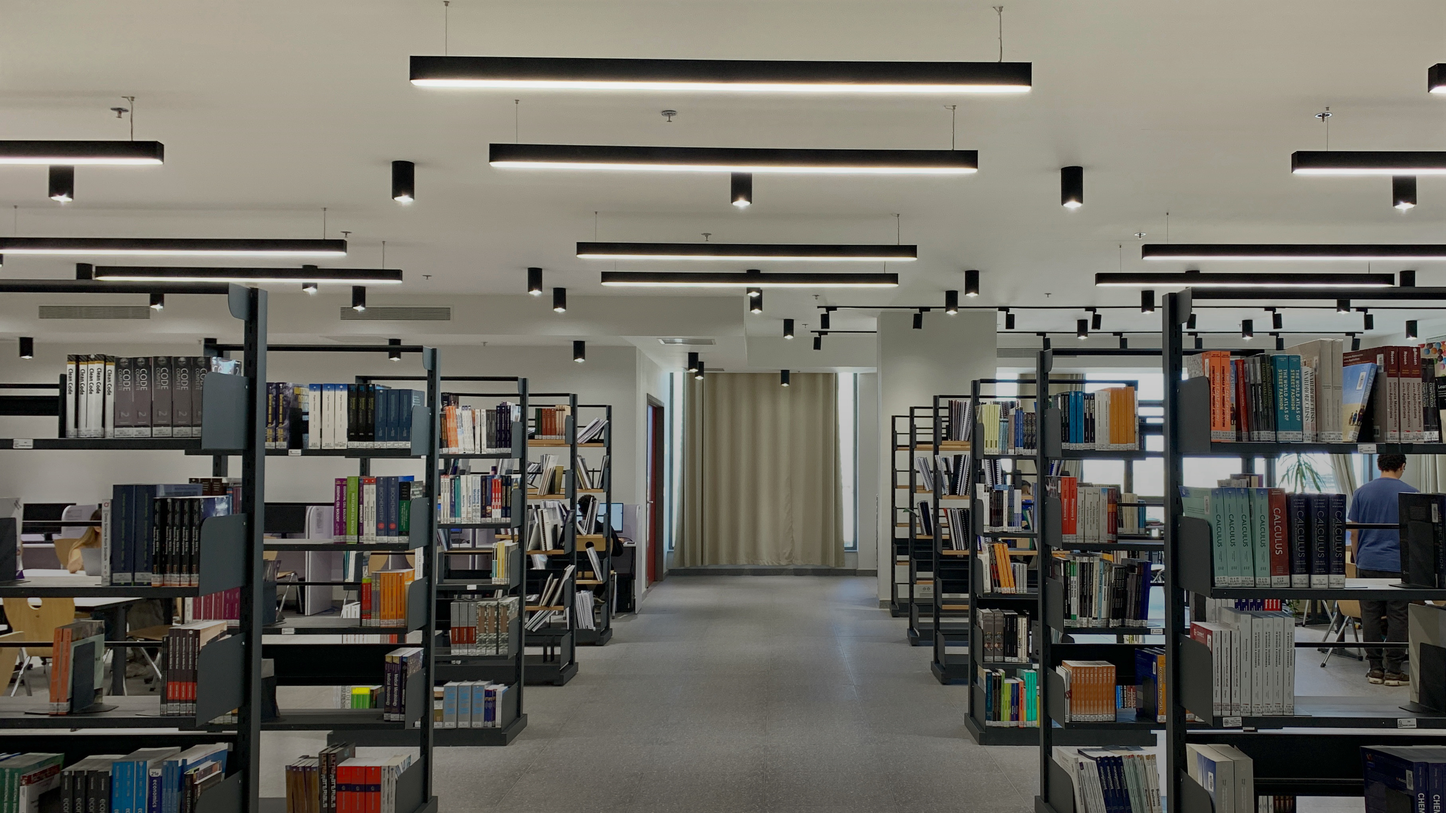
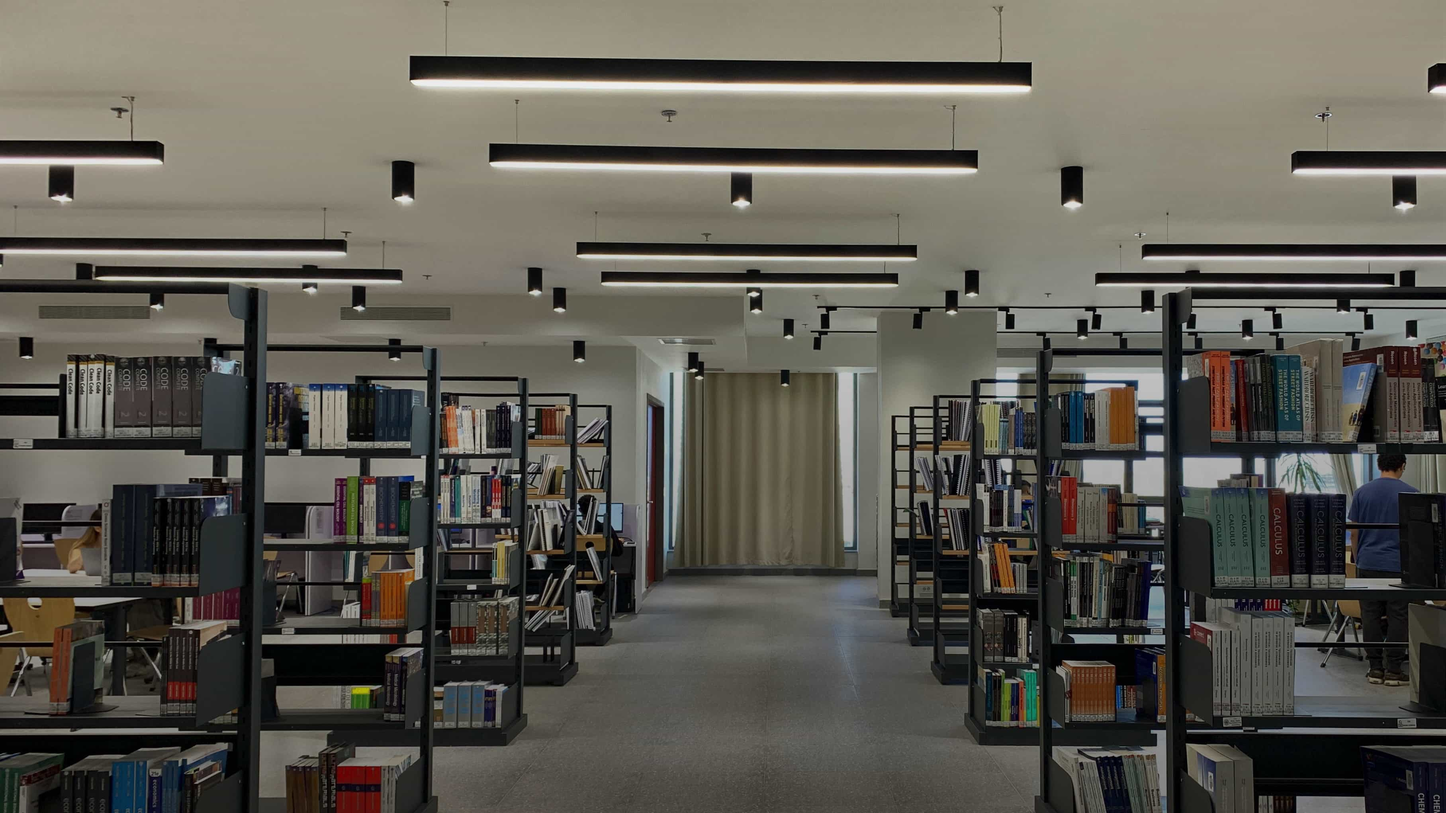
optimize pictures

diff --git a/client/css/location.css b/client/css/location.css
@@ -152,6 +152,19 @@ body {
   -moz-border-radius: 50px;
   -ms-border-radius: 50px;
   -o-border-radius: 50px;
+  background-position: center;
+  background-image: url("../images/Library1.jpeg");
+  height: 500px;
+  width: 100%;
+  margin: 0;
+  padding: 50px;
+  color: white;
+
+
+  background-size: cover;
+
+
+  background-attachment: fixed;
 }
 
 .slide[data-active] {
@@ -233,10 +246,19 @@ body {
   display: flex;
   justify-content: center;
   padding: 20px;
-  
+
   background-color: #f8f9fa;
 }
+/* .img-section {
+  background-position: center;
+  background-image: url("../images/Library1.jpeg");
 
+
+  background-size: cover;
+
+
+  background-attachment: fixed;
+} */
 .search input[type="text"] {
   display: flex;
   justify-content: center;
@@ -278,7 +300,6 @@ body {
   border: none;
   border-radius: 50%;
   cursor: pointer;
-
 }
 
 .search button:hover {
